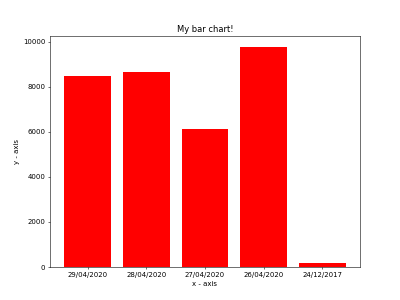
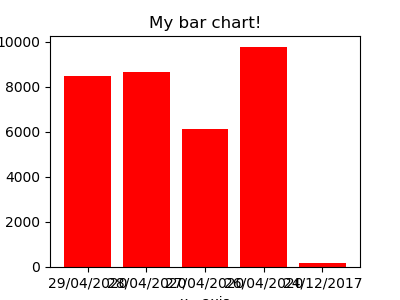
testing image

diff --git a/texttest.py b/texttest.py
@@ -51,7 +51,11 @@ tick_label = dates
 # labels for bars 
 #tick_label = ['one', 'two', 'three', 'four', 'five'] 
 
-plt.figure(figsize=(8, 6), dpi=50)
+fig = plt.gcf()
+DPI = fig.get_dpi()
+fig.set_size_inches(400/float(DPI),300/float(DPI))
+
+#plt.figure(figsize=(8, 6), dpi=50)
 # plotting a bar chart 
 plt.bar(left, height, tick_label = tick_label, 
         width = 0.8, color = ['red']) 
